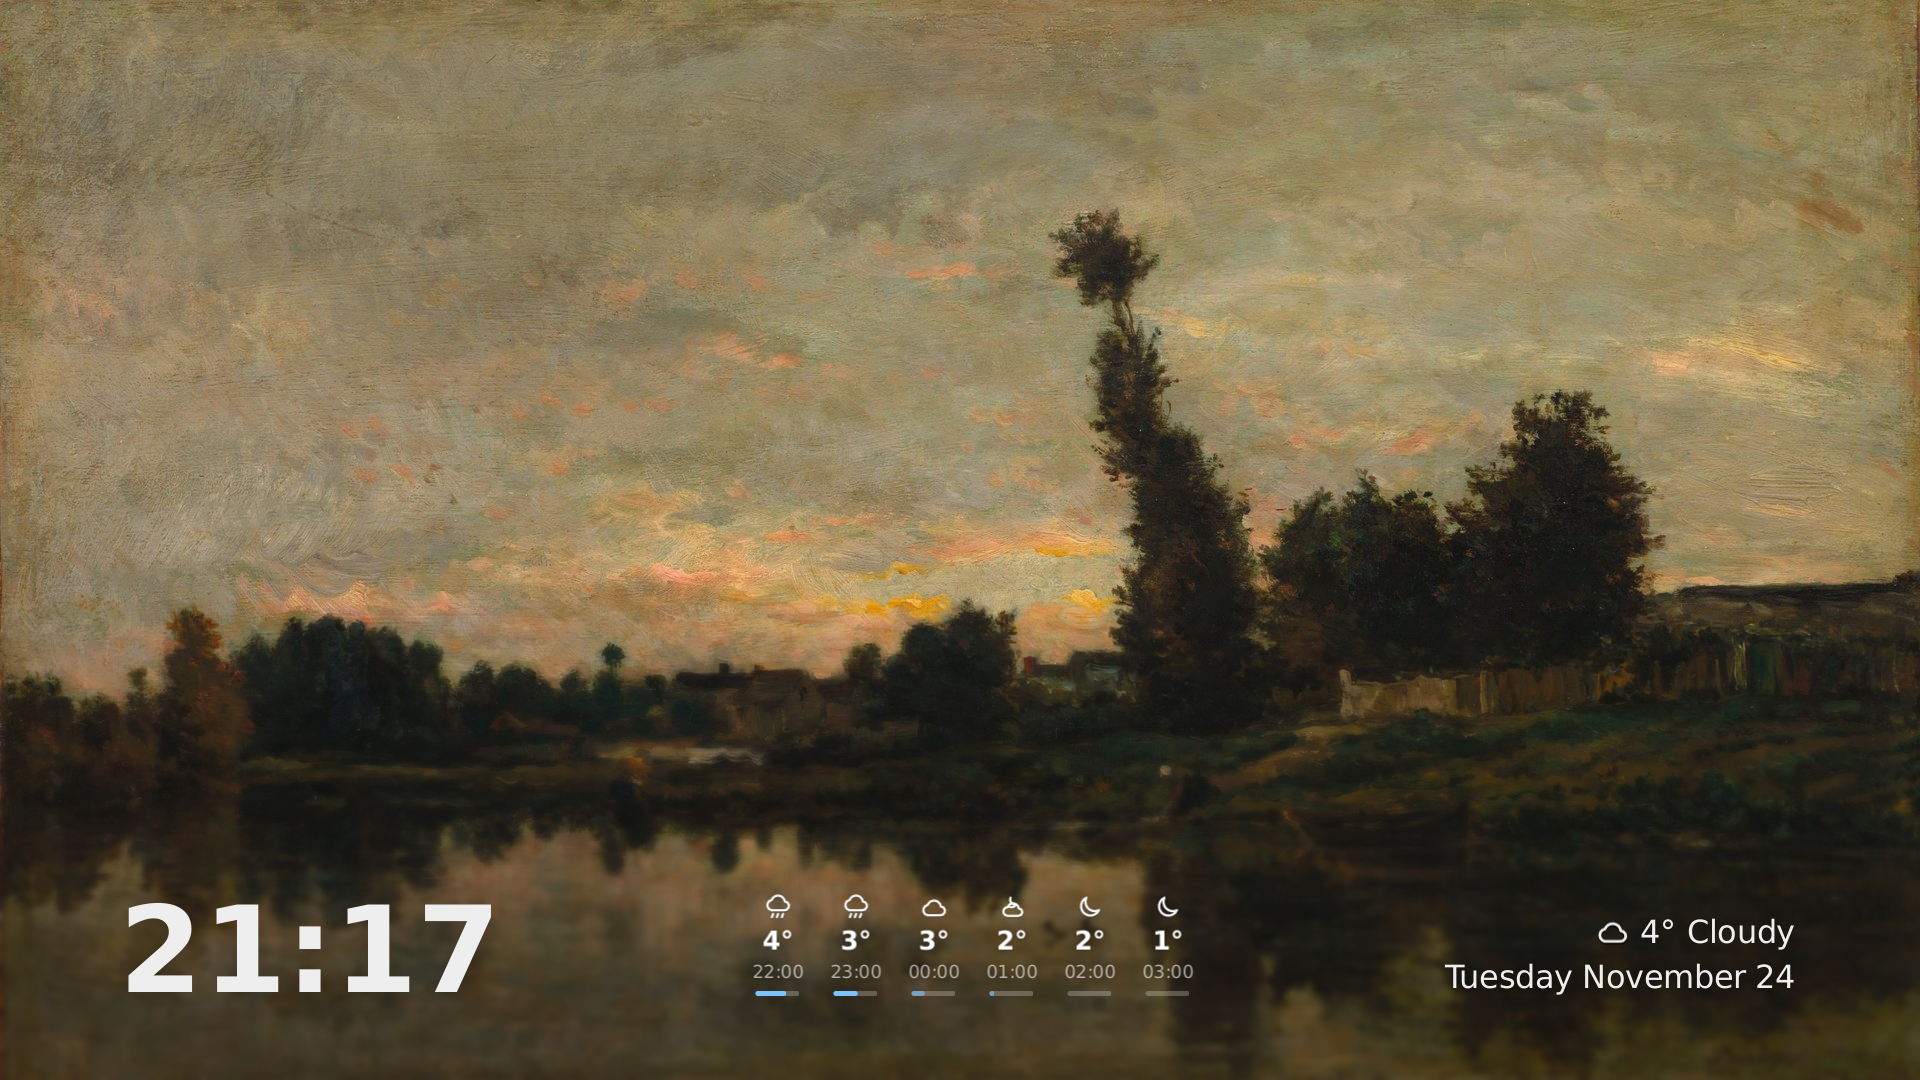
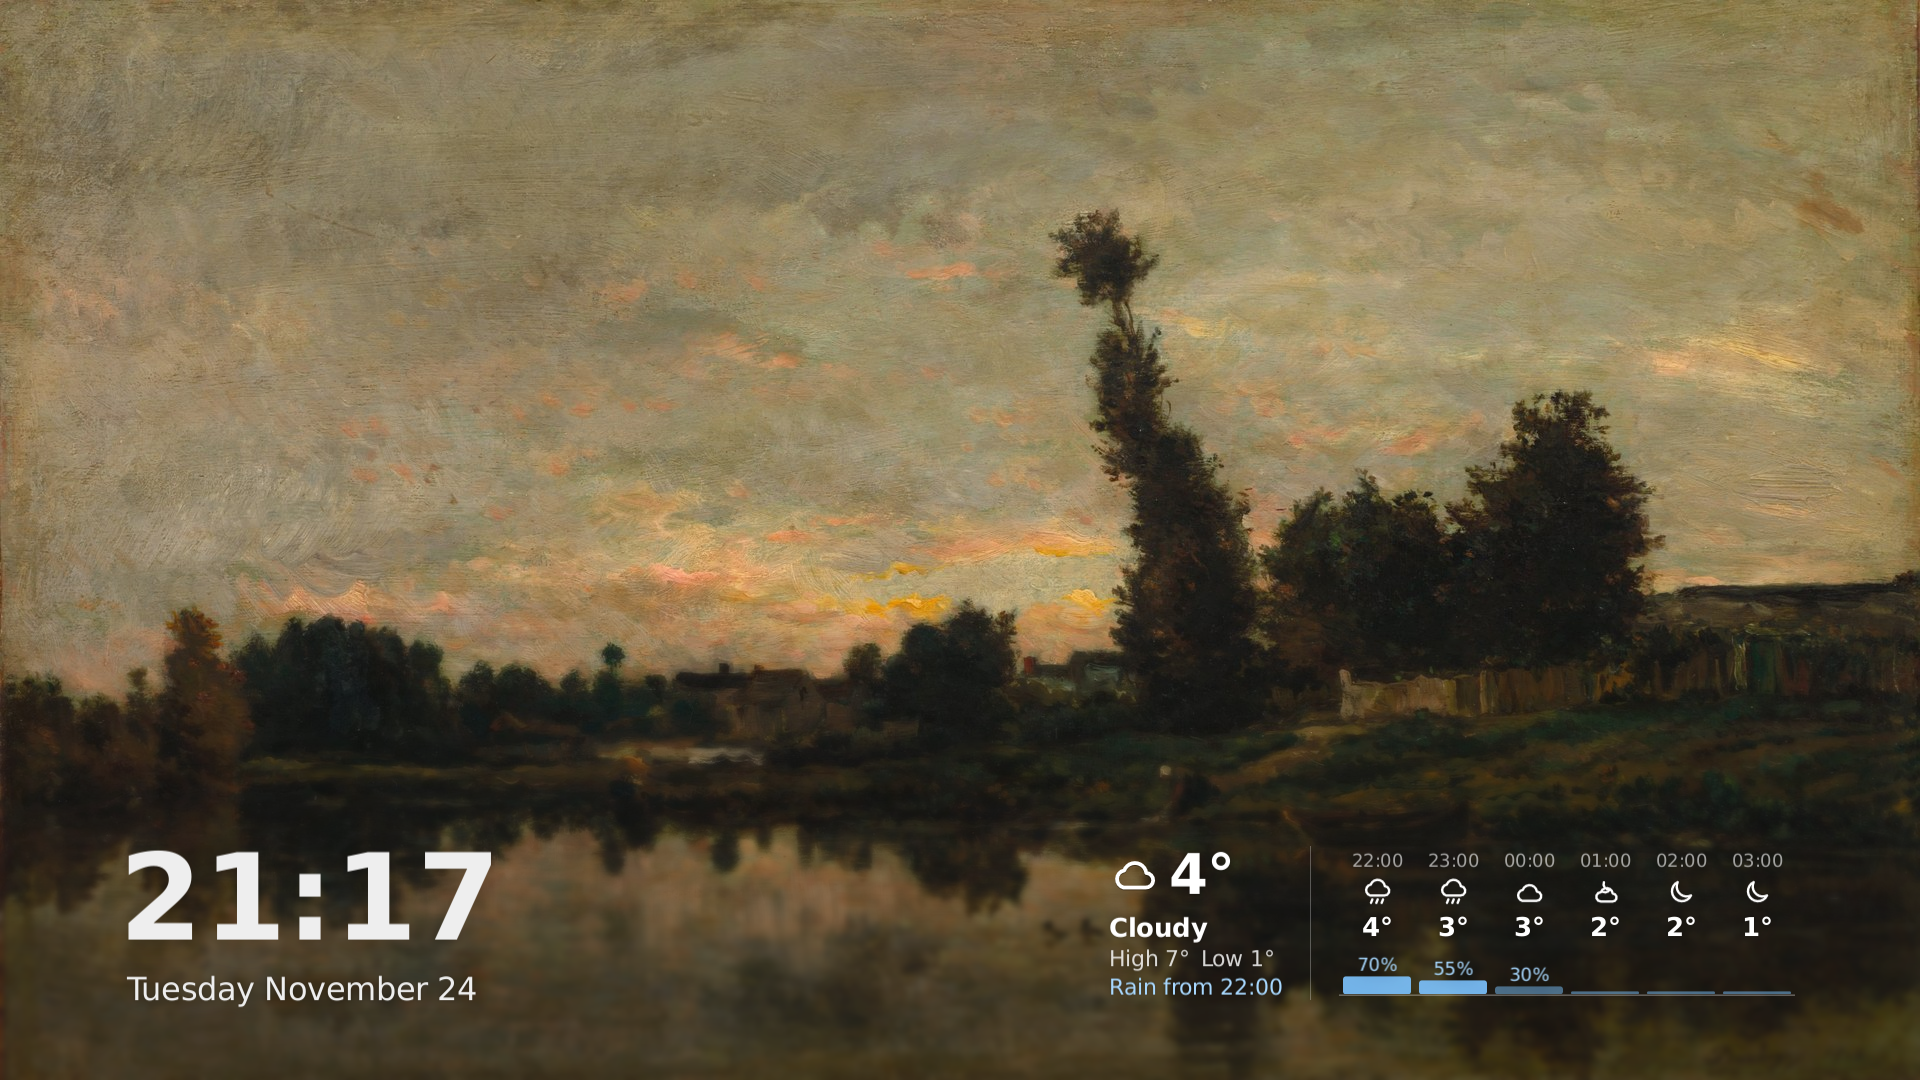
Lumen Native: the screensaver's large weather shows now, high and low and when rain starts, with the date under the clock

diff --git a/native/lumen/src/saver.rs b/native/lumen/src/saver.rs
@@ -49,6 +49,25 @@ const PERIOD: Style = Style { px: 32, weight: "400", spacing_em: -0.012, feature
 const LINE: Style = Style { px: 32, weight: "500", spacing_em: -0.012, feature: "", ink: INK, shadows: &STATUS_SHADOW };
 const CAST_TEMP: Style = Style { px: 26, weight: "600", spacing_em: -0.011, feature: "", ink: WHITE, shadows: &STATUS_SHADOW };
 const CAST_TIME: Style = Style { px: 18, weight: "400", spacing_em: -0.011, feature: "", ink: WHITE, shadows: &STATUS_SHADOW };
+const CAST_BIG: Style = Style { px: 56, weight: "600", spacing_em: -0.011, feature: "", ink: WHITE, shadows: &STATUS_SHADOW };
+const CAST_NOTE: Style = Style { px: 22, weight: "500", spacing_em: -0.011, feature: "", ink: WHITE, shadows: &STATUS_SHADOW };
+const RAIN_NOTE: Style = Style { ink: RAIN_TEXT, ..CAST_NOTE };
+const RAIN_PERCENT: Style = Style { ink: RAIN_TEXT, ..CAST_TIME };
+const RAIN_TEXT: [f32; 3] = [0.659, 0.847, 1.0];
+const LARGE_COL: f32 = 76.0;
+const LARGE_HOURS: usize = 7;
+const LARGE_HOURS_H: f32 = 18.0 * 1.2 + 2.0 + 3.0 + 32.0 + 3.0 + 26.0 * 1.2 + 8.0 + 46.0;
+const DATE_LINE: f32 = 32.0 * 1.2;
+const CLOCK_BELOW: f32 = BOTTOM - CLOCK_BASELINE;
+const CLOCK_H: f32 = 130.0;
+
+fn line_of(px: i32) -> f32 {
+    px as f32 * 1.2
+}
+
+fn baseline_in(px: i32, line_h: f32) -> f32 {
+    (line_h - 1.19 * px as f32) / 2.0 + 0.95 * px as f32
+}
 
 static OPENED: AtomicU64 = AtomicU64::new(0);
 static PICKER: Mutex<Option<Picker>> = Mutex::new(None);
@@ -321,6 +340,29 @@ impl Saver {
     fn draw_status(&mut self, d: &mut Draw, alpha: f32) {
         let (time, period, date) = self.clock.clone();
         let time_style = if d.fonts.is_sf("600-clock") { TIME } else { TIME_TNUM };
+        if self.forecast == Forecast::Large {
+            if let Some(w) = self.weather.clone() {
+                let hours = weather::hours_ahead(&w, self.unix_now, LARGE_HOURS);
+                let large = (!hours.is_empty()).then(|| Large::lay_out(d, &w, &hours, self.twenty_four_hour));
+                let row2 = 14.0 + DATE_LINE;
+                let need = large.as_ref().map_or(0.0, |l| l.height + 8.0);
+                let extra = ((need - CLOCK_H - row2) / 2.0).max(0.0);
+                let clock_baseline = BOTTOM - row2 - extra - CLOCK_BELOW;
+                if let Some(t) = d.text(&time, &time_style) {
+                    t.draw(d, CLOCK_LEFT, clock_baseline, alpha);
+                    if let Some(p) = d.text(&period, &PERIOD) {
+                        p.draw(d, CLOCK_LEFT + t.advance + PERIOD_GAP, clock_baseline - 3.0, alpha);
+                    }
+                }
+                if let Some(t) = d.text(&date, &LINE) {
+                    t.draw(d, LEFT + 2.0, BOTTOM - DATE_LINE + baseline_in(32, DATE_LINE), alpha);
+                }
+                if let Some(l) = large {
+                    l.draw(d, &w, &hours, self.twenty_four_hour, RIGHT, BOTTOM - 8.0, alpha);
+                }
+                return;
+            }
+        }
         let mut clock_w = 0.0;
         if let Some(t) = d.text(&time, &time_style) {
             t.draw(d, CLOCK_LEFT, CLOCK_BASELINE, alpha);
@@ -354,7 +396,6 @@ impl Saver {
             }
             row_w = row_w.max(width);
         }
-        // ponytail: the large forecast draws as the small one, between the clock and the date, as on home
         let Some(w) = self.weather.clone().filter(|_| self.forecast != Forecast::Off) else { return };
         let hours = weather::hours_ahead(&w, self.unix_now, CAST_HOURS);
         if hours.is_empty() {
@@ -384,12 +425,108 @@ impl Saver {
         }
     }
 
+    fn rect(d: &Draw, (x, y, w, h): (f32, f32, f32, f32), radius: f32, ink: [f32; 3], alpha: f32) {
+        d.p.fill.activate();
+        d.p.fill.set4(c"u_box", x, y, w, h);
+        d.p.fill.set1(c"u_radius", radius);
+        d.p.fill.set4(c"u_ink", ink[0], ink[1], ink[2], alpha);
+        d.gfx.quad(&d.p.fill, x, y, w, h);
+    }
+
     fn pill(d: &Draw, x: f32, y: f32, w: f32, ink: [f32; 3], alpha: f32) {
         d.p.fill.activate();
         d.p.fill.set4(c"u_box", x, y, w, 5.0);
         d.p.fill.set1(c"u_radius", 2.5);
         d.p.fill.set4(c"u_ink", ink[0], ink[1], ink[2], alpha);
         d.gfx.quad(&d.p.fill, x, y, w, 5.0);
+    }
+}
+
+struct Large {
+    big: String,
+    meta: Option<String>,
+    note: Option<String>,
+    now_w: f32,
+    now_h: f32,
+    height: f32,
+    width: f32,
+}
+
+pub fn rain_note(hours: &[weather::Hour], twenty_four_hour: bool) -> Option<String> {
+    hours.iter().find(|h| h.rain >= RAIN_LIKELY).map(|h| format!("Rain from {}", hour_text(&h.t, twenty_four_hour)))
+}
+
+pub fn high_low(w: &Weather) -> Option<String> {
+    Some(format!("High {}°\u{2002}Low {}°", w.high?, w.low?))
+}
+
+impl Large {
+    fn lay_out(d: &mut Draw, w: &Weather, hours: &[weather::Hour], twenty_four_hour: bool) -> Large {
+        let big = format!("{}°", w.temp);
+        let (meta, note) = (high_low(w), rain_note(hours, twenty_four_hour));
+        let width_of = |d: &mut Draw, text: &str, style: &Style| d.text(text, style).map_or(0.0, |t| t.advance);
+        let mut now_w = 60.0 + width_of(d, &big, &CAST_BIG);
+        let mut now_h = 56.0;
+        if !w.label.is_empty() {
+            now_w = now_w.max(width_of(d, &w.label, &CAST_TEMP));
+            now_h += 10.0 + line_of(26);
+        }
+        for text in [&meta, &note].into_iter().flatten() {
+            now_w = now_w.max(width_of(d, text, &CAST_NOTE));
+            now_h += 2.0 + line_of(22);
+        }
+        let height = now_h.max(LARGE_HOURS_H);
+        Large { big, meta, note, now_w, now_h, height, width: now_w + 57.0 + hours.len() as f32 * LARGE_COL }
+    }
+
+    fn draw(&self, d: &mut Draw, w: &Weather, hours: &[weather::Hour], twenty_four_hour: bool, right: f32, bottom: f32, alpha: f32) {
+        let (left, top) = (right - self.width, bottom - self.height);
+        let now_top = top + (self.height - self.now_h) / 2.0;
+        let hours_top = top + (self.height - LARGE_HOURS_H) / 2.0;
+        let cols = left + self.now_w + 57.0;
+        let icon = d.glyph(weather::icon(w.kind, w.day), 50, 1.8);
+        d.inked_picture(icon, left, now_top + 4.0, 50.0, 50.0, [0.0, 0.0, 0.0, 0.35 * alpha]);
+        d.inked_picture(icon, left, now_top + 3.0, 50.0, 50.0, [1.0, 1.0, 1.0, alpha]);
+        if let Some(t) = d.text(&self.big, &CAST_BIG) {
+            t.draw(d, left + 60.0, now_top + baseline_in(56, 56.0), alpha);
+        }
+        let mut y = now_top + 56.0;
+        if let Some(t) = d.text(&w.label, &CAST_TEMP) {
+            t.draw(d, left, y + 10.0 + baseline_in(26, line_of(26)), alpha);
+            y += 10.0 + line_of(26);
+        }
+        if let Some(t) = self.meta.as_deref().and_then(|m| d.text(m, &CAST_NOTE)) {
+            t.draw(d, left, y + 2.0 + baseline_in(22, line_of(22)), 0.82 * alpha);
+            y += 2.0 + line_of(22);
+        }
+        if let Some(t) = self.note.as_deref().and_then(|n| d.text(n, &RAIN_NOTE)) {
+            t.draw(d, left, y + 2.0 + baseline_in(22, line_of(22)), alpha);
+        }
+        Saver::rect(d, (left + self.now_w + 28.0, top, 1.0, self.height), 0.0, WHITE, 0.28 * alpha);
+        let bars_bottom = hours_top + LARGE_HOURS_H - 2.0;
+        for (i, hour) in hours.iter().enumerate() {
+            let x = cols + i as f32 * LARGE_COL;
+            if let Some(t) = d.text(&hour_text(&hour.t, twenty_four_hour), &CAST_TIME) {
+                t.draw(d, x + (LARGE_COL - t.advance) / 2.0, hours_top + baseline_in(18, line_of(18)), 0.6 * alpha);
+            }
+            let icon_top = hours_top + line_of(18) + 5.0;
+            let icon = d.glyph(weather::icon(hour.kind, hour.day), 32, 1.8);
+            d.inked_picture(icon, x + (LARGE_COL - 32.0) / 2.0, icon_top + 1.0, 32.0, 32.0, [0.0, 0.0, 0.0, 0.35 * alpha]);
+            d.inked_picture(icon, x + (LARGE_COL - 32.0) / 2.0, icon_top, 32.0, 32.0, [1.0, 1.0, 1.0, alpha]);
+            if let Some(t) = d.text(&format!("{}°", hour.temp), &CAST_TEMP) {
+                t.draw(d, x + (LARGE_COL - t.advance) / 2.0, icon_top + 35.0 + baseline_in(26, line_of(26)), alpha);
+            }
+            let bar_h = ((hour.rain.max(0) as f32) * 0.26).round().max(3.0);
+            let wet = hour.rain >= RAIN_LIKELY;
+            Saver::rect(d, (x + 4.0, bars_bottom - bar_h, LARGE_COL - 8.0, bar_h), 3.0, RAIN_BLUE, if wet { 0.9 } else { 0.5 } * alpha);
+            if hour.rain >= 20 {
+                if let Some(t) = d.text(&format!("{}%", hour.rain), &RAIN_PERCENT) {
+                    let span_bottom = bars_bottom - bar_h - 3.0;
+                    t.draw(d, x + (LARGE_COL - t.advance) / 2.0, span_bottom - 18.0 + baseline_in(18, 18.0), if hour.rain < 30 { 0.55 } else { 1.0 } * alpha);
+                }
+            }
+        }
+        Saver::rect(d, (cols, bars_bottom, hours.len() as f32 * LARGE_COL, 2.0), 0.0, WHITE, 0.3 * alpha);
     }
 }
 
@@ -410,6 +547,18 @@ pub fn fetch_immich_wallpaper(app_dir: &str, wants: Wants, as_next: bool, then: 
 #[cfg(test)]
 mod tests {
     use super::*;
+
+    #[test]
+    fn the_large_forecast_names_the_first_likely_rain_and_the_days_range() {
+        let hour = |t: &str, rain| weather::Hour { t: t.into(), temp: 10, kind: weather::Kind::Rain, day: true, rain };
+        let hours = [hour("2026-11-24T22:00", 30), hour("2026-11-24T23:00", 60), hour("2026-11-25T00:00", 90)];
+        assert_eq!(rain_note(&hours, true).as_deref(), Some("Rain from 23:00"));
+        assert_eq!(rain_note(&hours[..1], true), None);
+        let mut w = Weather { temp: 16, label: "Clear".into(), kind: weather::Kind::Clear, day: false, high: Some(16), low: Some(8), hours: vec![], offset: 0, taken: 0 };
+        assert_eq!(high_low(&w).as_deref(), Some("High 16°\u{2002}Low 8°"));
+        w.low = None;
+        assert_eq!(high_low(&w), None);
+    }
 
     #[test]
     fn the_shade_behind_the_clock_has_no_top_edge_and_darkens_towards_the_bottom() {
